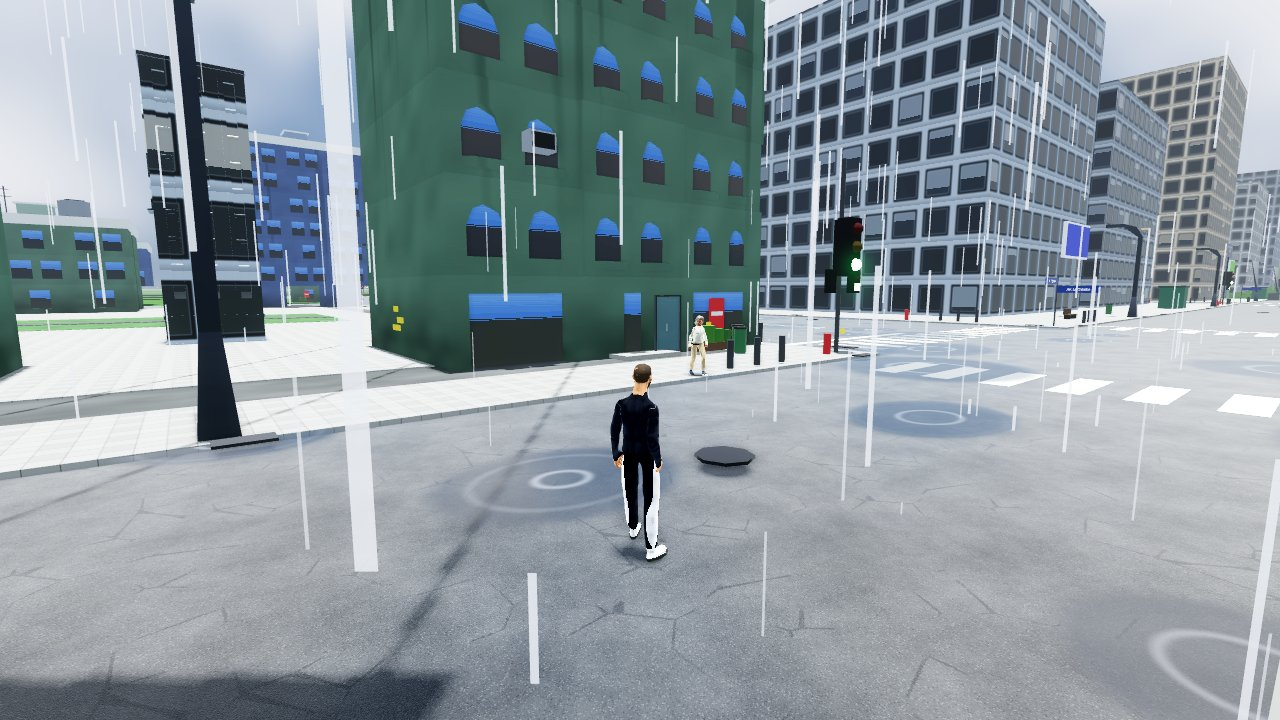
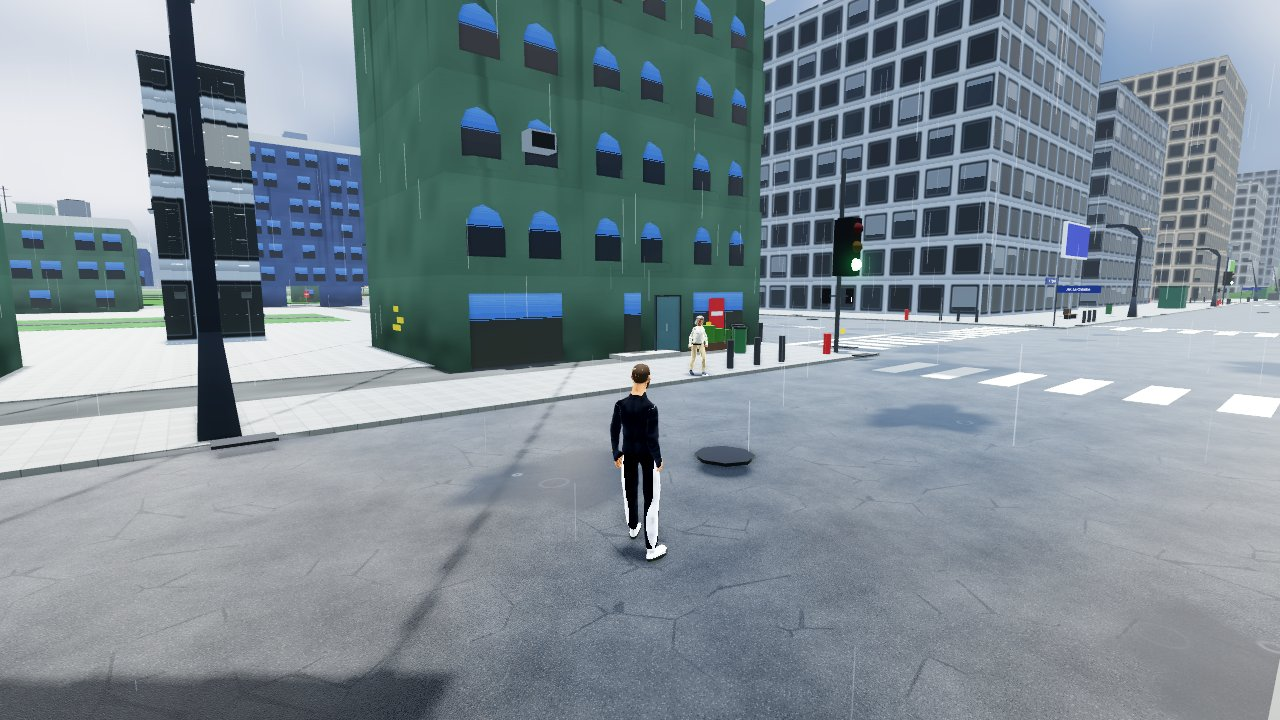
Lluvia fina con gotas en anillo, charcos como manchas con ondas, suelo mojado más oscuro; prueba p6_cierre_ciudad; cierre de sesión 3
Claude-Session: https://claude.ai/code/session_015HWWmo9PWZavoEcwL8dfWu

diff --git a/docs/PLAN_DEL_LUNES.md b/docs/PLAN_DEL_LUNES.md
@@ -658,14 +658,10 @@ Prioridad P0–P3 · estado · qué falta. Reverificar la fila antes de construi
 | M-167 | P1 | PENDIENTE | Calzadas = cajas de asfalto con marcas propias; Kenney sólo… | calzadas propias; losetas Kenney no usadas |
 | M-171 | P1 | PARCIAL | Tráfico sin comportamiento complejo (adelantar, ceder en cruce) | 27-10: cola, frenado en rojo, prioridad de la derecha en los cruces y adelantar al autobús parado (`TraficoCiudad`); falta adelantar a coches lentos y rotondas |
 | M-263 | P1 | PENDIENTE | Eventos únicos (13) y control real; pocos días de «vida» entre… | sin agenda semanal |
-| M-168 | P2 | PENDIENTE | Sin rotondas | sin rotondas |
-| M-170 | P2 | PENDIENTE | Sin semáforos peatonales con botón | sin botón peatonal |
 | M-173 | P2 | PARCIAL | Sin sonido de motor/marchas/derrape | 21-10: el motor del coche suena, sintetizado en vivo con revoluciones y 5 marchas (`visor/motor_coche_sonido.gd`); sin radio |
 | M-174 | P2 | PARCIAL | Interior de coche sin modelo (salpicadero 2D) | salpicadero y volante 2D (`VolanteUI`) |
 | M-176 | P2 | PENDIENTE | Sin tipos de vehículo (moto, bus conducible, camión) | solo coche conducible |
-| M-177 | P2 | PENDIENTE | Sin gasolinera/aparcamiento/lavado | sin gasolinera/lavado |
 | M-180 | P2 | PARCIAL | Metro: sin vendedores/música/anuncios | anuncios en el vagón (`MetroCiudad.ANUNCIOS`); sin vendedores ni música |
-| M-182 | P2 | PENDIENTE | Sin tarjeta de transporte ni coste | máquinas de billetes decorativas; sin coste |
 | M-183 | P2 | PARCIAL | Peatones: 34 máx; sin rutinas por hora | 21-10: de madrugada queda en la calle un tercio de la gente (los ocultos tampoco se mueven: `TraficoCiudad.faros`); faltan rutinas por persona |
 | M-184 | P2 | PENDIENTE | Sin NPC con nombre y memoria (te reconocen) | sin vecinos con memoria |
 | M-185 | P2 | PENDIENTE | Diálogos por oficio (hecho) pero sin ramas ni consecuencias | diálogos sin consecuencias |
@@ -673,10 +669,8 @@ Prioridad P0–P3 · estado · qué falta. Reverificar la fila antes de construi
 | M-187 | P2 | PARCIAL | Casas sin habitantes ni rutinas | vivienda con «la familia que vive allí» (`InteriorInstalacion` l.1057); sin horarios |
 | M-188 | P2 | PENDIENTE | Sin tiendas con compra real (ropa, balones) | sin compra en tiendas |
 | M-189 | P2 | PENDIENTE | Sin bares/restaurantes con minijuego | sin bar con minijuego |
-| M-190 | P2 | HECHO-REVISAR | Lluvia con charcos | `CharcosLluvia` (MultiMesh de 196 discos con ondas, rejilla del mundo, siguen a la cámara, nacen con `PrecipitacionCiudad`, altura `CityBuilder.altura_en`+0,22); capturas `capturas_ciudad_c2/charcos_*.jpg`. Pendiente: reflejo de farolas en charcos de noche |
 | M-191 | P2 | PARCIAL | Sin ciclo día/noche más allá del slider | ciclo día/noche automático (`_ciclo_activo`); sin reloj real |
 | M-192 | P2 | SIN VERIFICAR | Aceras/pavimentos: 3 texturas | no se midió la variedad de aceras por barrio |
-| M-193 | P2 | PARCIAL | Sin vegetación variada (setos, flores) más allá de árboles | setos de jardines y casas (`CiudadExpansion._setos_t`); sin flores |
 | M-196 | P2 | PENDIENTE | Botes sin sonido/estela | sin estela de botes |
 | M-197 | P2 | PENDIENTE | Autopista sin peajes ni estaciones | sin peajes |
 | M-198 | P2 | PENDIENTE | Aeropuerto/estación de tren inexistentes (no hay viajes) | sin viajes/aeropuerto |
@@ -2199,3 +2193,4 @@ Exportar e importar la partida (fila 30 de la propuesta, §10 «Guardado en la n
 - (28-10) M-168 rotonda (`visor/ciudad_rotonda.gd`, captura `capturas_ciudad_c2/rotonda_antes_despues.jpg`, arriba antes con semáforos, abajo después): en el cruce avenida × avenida (-660, 330), uno de los 38 que NO tiene ninguna ruta de coches a menos de 16 m (así no rompe la red): se le quita el semáforo y se levanta isla de 6,5 m con bordillo, monumento, arbustos y árboles, anillo asfaltado con rayas, señales de ceda el paso y flechas de giro antihorario; la isla es obstáculo sólido (`CityBuilder.circulos`). `SIN_ROTONDA=1` la apaga. Pendiente: una rotonda con TRÁFICO (desviar las rutas por el círculo; hay que reconstruir las paradas y los controles de las rutas que pasan por el cruce) y quitar de la lista de semáforos peatonales los botones de ese cruce.
 - (28-10) M-193 flores (`PastoCiudad.flores`, captura `capturas_ciudad_c2/flores_antes_despues.jpg`, izquierda antes y derecha después): una de cada dos matas del parque, los patios y la feria es el centro de un ramillete de 9 flores de cinco colores (tallo + cabeza con color por instancia), MultiMesh por celdas con corte a 38 m; coste medido +1,1 % de triángulos (4,28 M → 4,33 M) y +4 llamadas. `SIN_FLORES=1` las apaga. Pendiente: setos con flor y enredaderas en fachadas.
 - (28-10) M-182 tarjeta de transporte Red (`CarteraDT.saldo_transporte/TARIFAS/recargar_transporte/pagar_pasaje`, test `p6_tarjeta_transporte`; `VidaCiudad.usar_billetes/cobrar_pasaje`): las máquinas de billetes de los andenes (E) recargan 5 € de la cartera; entrar al metro cuesta 1 € y subir al teleférico 3 €, de la tarjeta; sin saldo no se sube y avisa. Se guarda en la partida (`transporte`). Sin captura (es texto de diálogo). Pendiente: cobrar también el bus cuando el DT suba a uno (hoy solo suben figurantes), mostrar el saldo en la app «Red» del móvil y abono mensual.
+- (28-10 cierre) Quedan de la sesión 3: peatones NPC que respeten la fase peatonal; rotonda con tráfico real; metro y tren con librea (no «Red»); luz de acera en paraderos; reflejo de farolas en los charcos de noche; el pasaje solo lo cobra el bus del DT; saldo de la tarjeta en la app «Red». Ver `docs/04_auditorias/sesion_3_cierre_28-10.md`.

diff --git a/docs/04_auditorias/sesion_3_cierre_28-10.md b/docs/04_auditorias/sesion_3_cierre_28-10.md
@@ -1,0 +1,20 @@
+# Sesión 3 · cierre del 28-10 (rama `ccr-630aba3a-nnd93p`)
+
+## Qué hice
+- **Paraderos y buses «Red»**: paraderos con código/recorridos por sector y luz real de noche; bus con modelo propio (`AutobusModelo`), números de una cara, letrero trasero luminoso, puertas opacas, faros/luces traseras y foco de noche; la gente sube por la puerta de la acera.
+- **Gente**: rutinas de peatones por sector y hora (`RutinaPeatones`), maletines y mochilas, pelo del Drive (3 cortes), pasajeros del teleférico por rampa y camino.
+- **Ciudad**: pasto y flores (+2 % triángulos), lavado de autos con un auto en bucle y aparcamiento alineado, semáforos peatonales con hombrecito y botón (prueba de fases), rotonda, charcos y lluvia fina (gotas en anillo, suelo y aceras que se oscurecen), tarjeta de transporte (M-182), salas de comercio nuevas.
+- **Celebración del título** (`CelebracionTrofeo`) y sillón de oficina.
+- Cerradas y borradas del plan: M-168, M-170, M-177, M-182, M-190, M-193. Limpieza: `.uid` huérfano de `ayudante_menu`; test nuevo `p6_cierre_ciudad` (bus, lavado, rampa).
+
+## Capturas a mirar (`docs/04_auditorias/capturas_ciudad_c2/`)
+`bus_red_modelo`, `paraderos_de_noche_antes_despues`, `semaforo_peatonal`, `teleferico_gente`, `gasolinera_lavado_aparcamiento`, `charcos_seco` / `charcos_lluvia`, `rotonda_antes_despues`, `pasto_antes_despues`, `flores_antes_despues`, `peatones_suben_bus_antes_despues`.
+
+## FALLOS CONOCIDOS (vistos y no arreglados)
+- Los peatones NPC no respetan la fase del semáforo peatonal (la cabeza y la lógica sí).
+- La rotonda no tiene tráfico real girando; metro y tren sin librea.
+- Los paraderos no tienen luz de acera; los charcos de noche no reflejan las farolas.
+- Solo el bus del DT cobra pasaje; el saldo de la tarjeta no sale en la app «Red».
+- Al construir la ciudad sale un error de script en `vestidor_q_p2.gd:77` (`vestir_equipacion`, llamado desde `mascota_q.gd`); no es de estos cambios y no lo investigué.
+- Charcos en cualquier superficie plana: se colocan a `altura_en` + 0,22 m, así que sobre aceras o césped pueden quedar a otra altura.
+- M-180 (metro con vendedores/música) y M-187 (casas con habitantes y horarios) no empezadas: quedan para el lunes.
